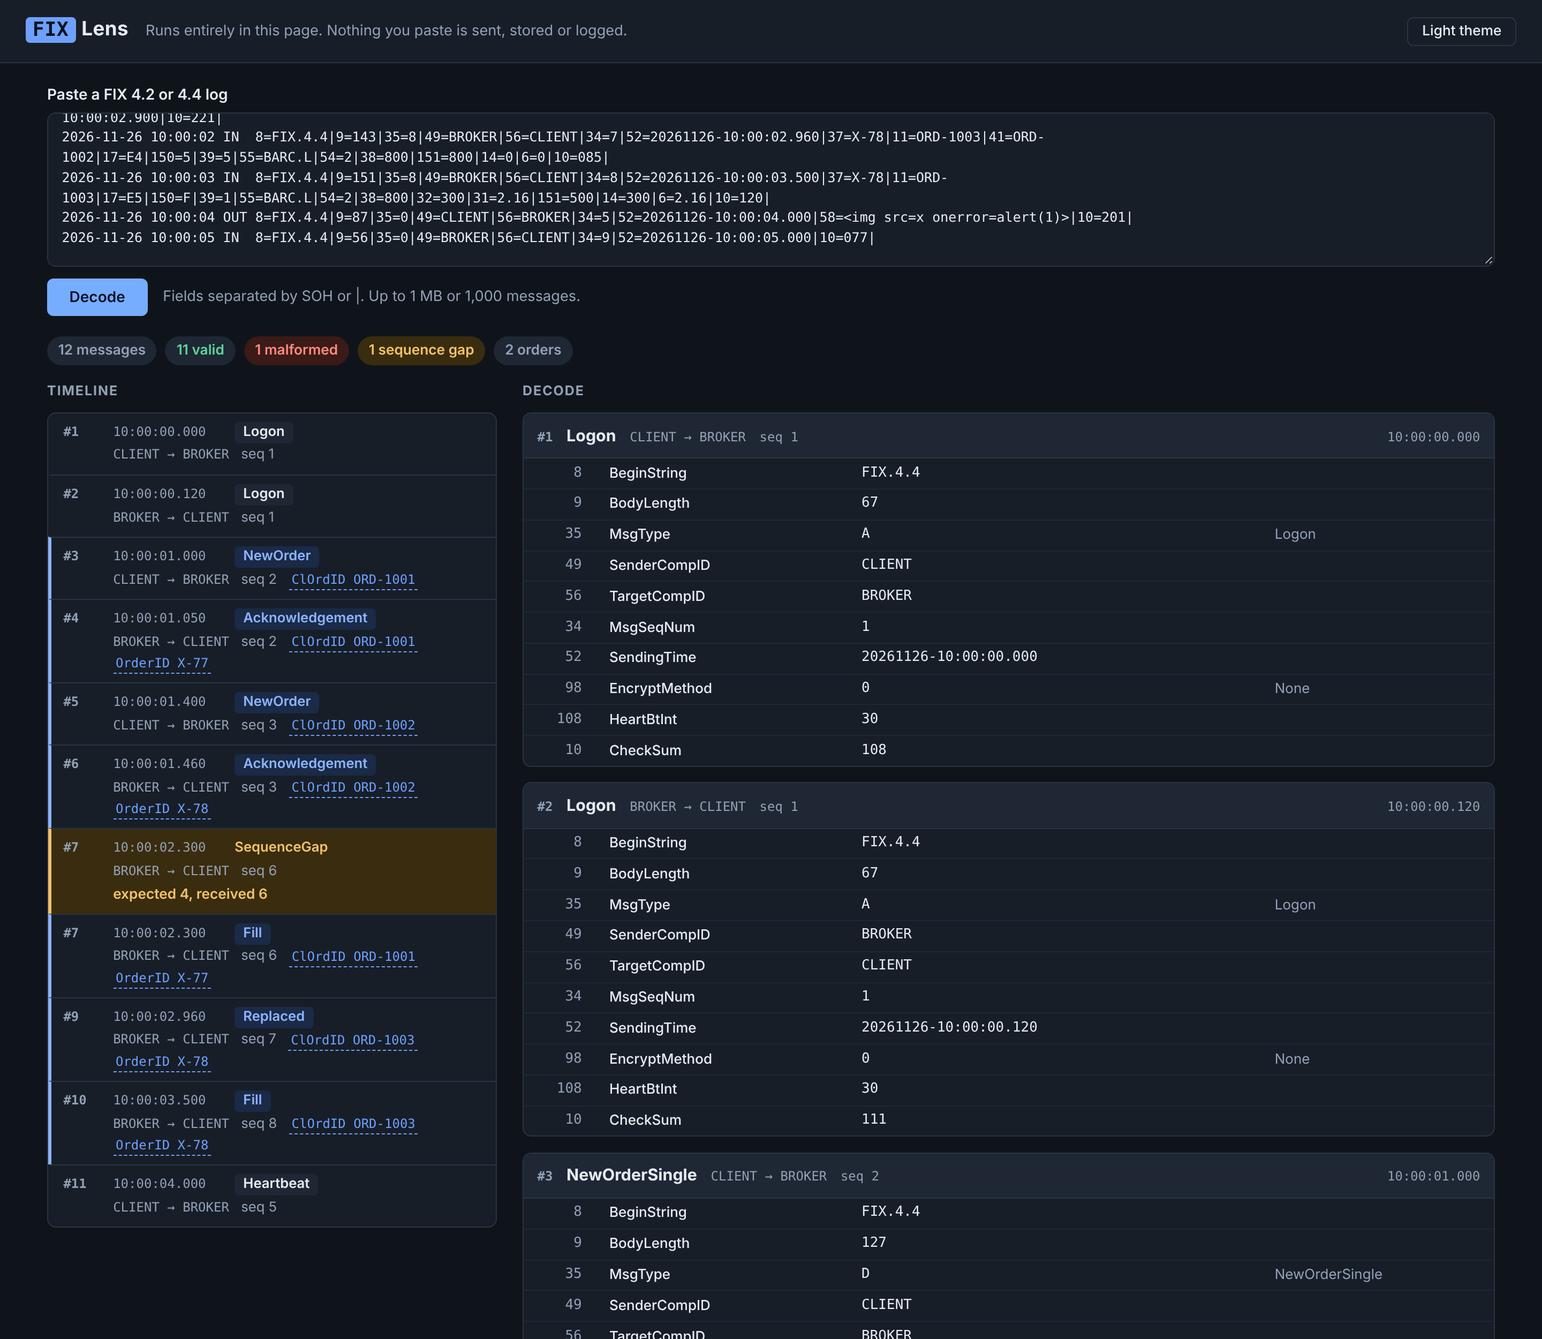
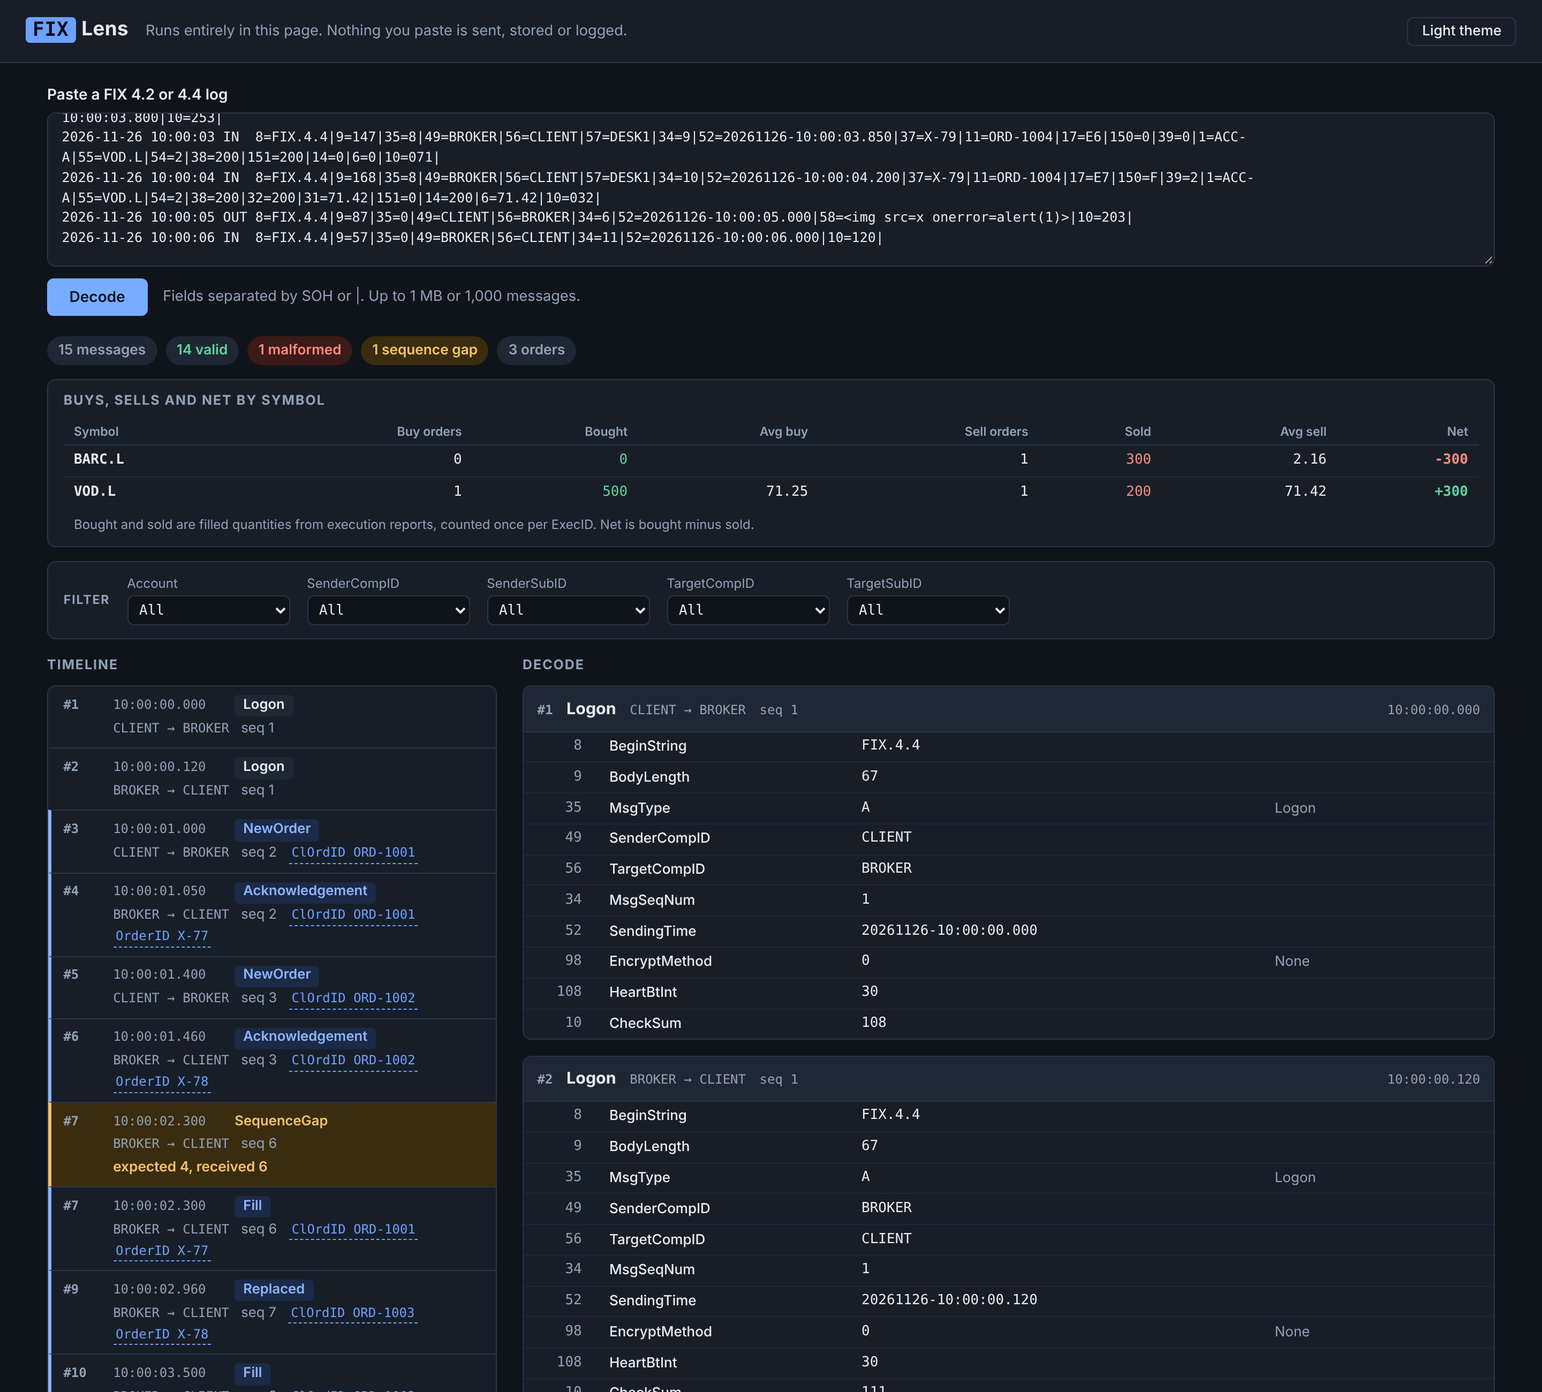
FIX Lens mock: buys/sells/net per symbol, five filters, order story, themes
Claude-Session: https://claude.ai/code/session_017Nmbe65RLJyS5p6ETtVvkY

diff --git a/docs/agent-harness/fix-lens/mock/src/render.js b/docs/agent-harness/fix-lens/mock/src/render.js
@@ -1,5 +1,7 @@
-/** Render local analysis into the summary strip and the two output sections. Text nodes only. */
+/** Render local analysis into the overview and the two output sections. Text nodes only. */
 import { orderGroups, findOrder } from './orders.js';
+import { tradeSummary } from './summary.js';
+import { FILTERS, filterOptions, applyFilters } from './filters.js';
 
 const el = (parent, tag, text, className) => {
   const node = document.createElement(tag);
@@ -12,6 +14,9 @@ const field = (message, tag) => message.fields.find(f => f.tag === tag) ?? null;
 const value = (message, tag) => field(message, tag)?.value ?? null;
 const meaning = (message, tag) => { const f = field(message, tag); return f ? (f.enumName && f.enumName !== 'unknown value' ? f.enumName : f.value) : null; };
 const clock = stamp => (stamp && stamp.includes('-') ? stamp.slice(stamp.indexOf('-') + 1) : stamp);
+const qty = n => (Math.round(n * 10000) / 10000).toLocaleString('en-GB', { maximumFractionDigits: 4 });
+const px = n => n.toLocaleString('en-GB', { minimumFractionDigits: 2, maximumFractionDigits: 4 });
+const plural = (n, word) => `${n} ${word}${n === 1 ? '' : 's'}`;
 const eventClass = event => {
   if (event.name === 'SequenceGap') return 'gap';
   if (event.name === 'SessionReject' || event.name === 'BusinessReject') return 'reject';
@@ -27,29 +32,76 @@ function orderId(parent, id, prefix, pick) {
   return button;
 }
 
-function renderSummary(root, result, order, clear) {
-  root.replaceChildren();
-  if (!result.ok) return;
-  if (order) {
-    const box = el(root, 'div', undefined, 'order-story');
-    el(box, 'span', 'Order', 'order-kicker');
-    el(box, 'strong', [...order.group.clOrdIds, ...order.group.orderIds].join(' · '));
-    if (order.terms) el(box, 'span', order.terms, 'order-terms');
-    if (order.state) el(box, 'span', order.state, 'stat ok');
-    el(box, 'span', `${order.group.numbers.length} message${order.group.numbers.length === 1 ? '' : 's'}`, 'stat');
-    const all = el(box, 'button', 'Show all messages', 'ghost');
-    all.type = 'button';
-    all.addEventListener('click', clear);
-    return;
-  }
-  const gaps = result.timeline.filter(e => e.name === 'SequenceGap').length;
+function renderStats(root, result, shown, events, filtered) {
+  const row = el(root, 'div', undefined, 'stats');
+  const gaps = events.filter(e => e.name === 'SequenceGap').length;
   const total = result.decoded.length + result.errors.length;
-  const orders = orderGroups(result.decoded).length;
-  el(root, 'span', `${total} message${total === 1 ? '' : 's'}`, 'stat');
-  el(root, 'span', `${result.decoded.length} valid`, 'stat ok');
-  el(root, 'span', `${result.errors.length} malformed`, result.errors.length ? 'stat bad' : 'stat');
-  el(root, 'span', `${gaps} sequence gap${gaps === 1 ? '' : 's'}`, gaps ? 'stat warn' : 'stat');
-  el(root, 'span', `${orders} order${orders === 1 ? '' : 's'}`, 'stat');
+  el(row, 'span', filtered ? `${shown.length} of ${plural(total, 'message')}` : plural(total, 'message'), 'stat');
+  if (!filtered) {
+    el(row, 'span', `${result.decoded.length} valid`, 'stat ok');
+    el(row, 'span', `${result.errors.length} malformed`, result.errors.length ? 'stat bad' : 'stat');
+  }
+  el(row, 'span', plural(gaps, 'sequence gap'), gaps ? 'stat warn' : 'stat');
+  el(row, 'span', plural(orderGroups(shown).length, 'order'), 'stat');
+}
+
+function renderFilters(root, result, chosen, setFilter) {
+  const options = filterOptions(result.decoded);
+  const bar = el(root, 'div', undefined, 'filters');
+  el(bar, 'span', 'Filter', 'filters-label');
+  for (const { key, label } of FILTERS) {
+    const values = options[key];
+    const wrap = el(bar, 'label', undefined, 'filter');
+    el(wrap, 'span', label);
+    const select = el(wrap, 'select');
+    el(select, 'option', 'All');
+    // Option values are positions in the list, never the pasted text itself.
+    values.forEach(v => el(select, 'option', v));
+    select.disabled = values.length === 0;
+    select.selectedIndex = chosen[key] === null || chosen[key] === undefined ? 0 : values.indexOf(chosen[key]) + 1;
+    select.addEventListener('change', () => setFilter(key, select.selectedIndex === 0 ? null : values[select.selectedIndex - 1]));
+  }
+  if (FILTERS.some(f => chosen[f.key])) {
+    const clear = el(bar, 'button', 'Clear filters', 'ghost');
+    clear.type = 'button';
+    clear.addEventListener('click', () => setFilter(null, null));
+  }
+}
+
+function renderTrades(root, shown) {
+  const rows = tradeSummary(shown);
+  const box = el(root, 'div', undefined, 'trades');
+  el(box, 'h2', 'Buys, sells and net by symbol');
+  if (!rows.length) { el(box, 'p', 'No orders or fills in the messages shown.', 'empty'); return; }
+  const table = el(box, 'table', undefined, 'trade-table');
+  const head = el(el(table, 'thead'), 'tr');
+  for (const [text, cls] of [['Symbol', ''], ['Buy orders', 'n'], ['Bought', 'n buy'], ['Avg buy', 'n'], ['Sell orders', 'n'], ['Sold', 'n sell'], ['Avg sell', 'n'], ['Net', 'n']]) el(head, 'th', text, cls);
+  const body = el(table, 'tbody');
+  for (const r of rows) {
+    const net = r.buy.filledQty - r.sell.filledQty;
+    const tr = el(body, 'tr');
+    el(tr, 'td', r.symbol, 'symbol');
+    el(tr, 'td', String(r.buy.orders), 'n');
+    el(tr, 'td', qty(r.buy.filledQty), 'n buy');
+    el(tr, 'td', r.buy.filledQty ? px(r.buy.notional / r.buy.filledQty) : '', 'n');
+    el(tr, 'td', String(r.sell.orders), 'n');
+    el(tr, 'td', qty(r.sell.filledQty), 'n sell');
+    el(tr, 'td', r.sell.filledQty ? px(r.sell.notional / r.sell.filledQty) : '', 'n');
+    el(tr, 'td', `${net > 0 ? '+' : ''}${qty(net)}`, net > 0 ? 'n net buy' : net < 0 ? 'n net sell' : 'n net');
+  }
+  el(box, 'p', 'Bought and sold are filled quantities from execution reports, counted once per ExecID. Net is bought minus sold.', 'note');
+}
+
+function renderOrderBanner(root, order, clear) {
+  const box = el(root, 'div', undefined, 'order-story');
+  el(box, 'span', 'Order', 'order-kicker');
+  el(box, 'strong', [...order.group.clOrdIds, ...order.group.orderIds].join(' · '));
+  if (order.terms) el(box, 'span', order.terms, 'order-terms');
+  if (order.state) el(box, 'span', order.state, 'stat ok');
+  el(box, 'span', plural(order.group.numbers.length, 'message'), 'stat');
+  const all = el(box, 'button', 'Back to all messages', 'ghost');
+  all.type = 'button';
+  all.addEventListener('click', clear);
 }
 
 function renderTimeline(section, events, pick) {
@@ -106,30 +158,41 @@ function describe(group, decoded) {
 }
 
 /**
- * render(result, selectedOrderId?, handlers?)
- * With a selected order id, only that order's messages and events are shown.
+ * render(result, view?, handlers?)
+ * view: { orderId, filters }. With an order id, only that order's messages and events are shown.
+ * handlers: { pick(orderId), clear(), setFilter(key, value) }.
  */
-export function render(result, selectedOrderId = null, handlers = {}) {
+export function render(result, view = {}, handlers = {}) {
   const pick = handlers.pick ?? (() => {});
   const clear = handlers.clear ?? (() => {});
+  const setFilter = handlers.setFilter ?? (() => {});
+  const chosen = view.filters ?? {};
   const decodeSection = document.querySelector('#decode');
   const timelineSection = document.querySelector('#timeline');
   for (const section of [decodeSection, timelineSection]) section.replaceChildren(section.querySelector('h2'));
-  const summary = document.querySelector('#summary');
-  if (!result.ok) {
-    if (summary) summary.replaceChildren();
-    el(decodeSection, 'p', result.limit.warning, 'callout bad');
-    return;
+  const overview = document.querySelector('#summary');
+  if (overview) overview.replaceChildren();
+  if (!result.ok) { el(decodeSection, 'p', result.limit.warning, 'callout bad'); return; }
+
+  const filtered = FILTERS.some(f => chosen[f.key]);
+  const passing = applyFilters(result.decoded, chosen);
+  const group = view.orderId ? findOrder(orderGroups(result.decoded), view.orderId) : null;
+  const shown = group ? passing.filter(m => group.numbers.includes(m.number)) : passing;
+  const numbers = new Set(shown.map(m => m.number));
+  const events = result.timeline.filter(e => numbers.has(e.number));
+
+  if (overview) {
+    if (group) renderOrderBanner(overview, { group, ...describe(group, result.decoded) }, clear);
+    renderStats(overview, result, shown, events, filtered || Boolean(group));
+    renderTrades(overview, shown);
+    renderFilters(overview, result, chosen, setFilter);
   }
-  const group = selectedOrderId ? findOrder(orderGroups(result.decoded), selectedOrderId) : null;
-  const inView = number => !group || group.numbers.includes(number);
-  if (summary) renderSummary(summary, result, group ? { group, ...describe(group, result.decoded) } : null, clear);
-  renderTimeline(timelineSection, result.timeline.filter(e => inView(e.number)), pick);
+  renderTimeline(timelineSection, events, pick);
   const items = [
-    ...result.decoded.filter(m => inView(m.number)).map(message => ({ number: message.number, message })),
-    ...(group ? [] : result.errors.map(error => ({ number: error.number, error }))),
+    ...shown.map(message => ({ number: message.number, message })),
+    ...(group || filtered ? [] : result.errors.map(error => ({ number: error.number, error }))),
   ].sort((a, b) => a.number - b.number);
-  if (!items.length) el(decodeSection, 'p', 'No FIX messages found in the pasted text.', 'empty');
+  if (!items.length) el(decodeSection, 'p', filtered || group ? 'No messages match the current filters.' : 'No FIX messages found in the pasted text.', 'empty');
   for (const item of items) {
     if (item.message) renderMessage(decodeSection, item.message, pick);
     else {

diff --git a/docs/agent-harness/fix-lens/mock/styles.css b/docs/agent-harness/fix-lens/mock/styles.css
@@ -33,7 +33,9 @@ textarea:focus, button:focus-visible { outline: 2px solid var(--accent); outline
 button { font: 600 14px var(--sans); padding: .55rem 1.3rem; color: var(--accent-ink); background: var(--accent); border: 0; border-radius: 6px; cursor: pointer; }
 button:hover { filter: brightness(1.08); }
 .hint { color: var(--muted); font-size: .85rem; }
-.summary { display: flex; flex-wrap: wrap; gap: .5rem; margin: 1.2rem 0 0; min-height: 1px; }
+.overview { display: grid; gap: .8rem; margin: 1.2rem 0 0; }
+.overview:empty { display: none; }
+.stats { display: flex; flex-wrap: wrap; gap: .5rem; }
 .stat { font-size: .82rem; font-weight: 600; padding: .25rem .65rem; border-radius: 999px; background: var(--soft); color: var(--muted); }
 .stat.ok { color: var(--ok); } .stat.warn { color: var(--warn); background: var(--warn-bg); } .stat.bad { color: var(--bad); background: var(--bad-bg); }
 .results { display: grid; grid-template-columns: minmax(300px, 420px) minmax(0, 1fr); gap: 1.5rem; align-items: start; margin-top: 1rem; }
@@ -83,3 +85,19 @@ section h2 { margin: 0 0 .6rem; font-size: .78rem; font-weight: 700; letter-spac
 .order-story strong { font-family: var(--mono); }
 .order-terms { color: var(--ink); }
 .order-story .ghost { margin-left: auto; font-weight: 500; font-size: .82rem; padding: .3rem .8rem; color: var(--ink); background: var(--panel); border: 1px solid var(--line); }
+.filters { display: flex; flex-wrap: wrap; align-items: end; gap: .6rem 1rem; padding: .7rem .9rem; background: var(--panel); border: 1px solid var(--line); border-radius: 8px; }
+.filters-label { font-size: .72rem; font-weight: 700; letter-spacing: .08em; text-transform: uppercase; color: var(--muted); align-self: center; }
+.filter { display: grid; gap: .15rem; font-size: .75rem; color: var(--muted); }
+.filter select { font: 13px var(--mono); min-width: 9.5rem; padding: .3rem .4rem; color: var(--ink); background: var(--bg); border: 1px solid var(--line); border-radius: 6px; }
+.filter select:disabled { opacity: .5; }
+.filters .ghost { margin-left: auto; font-weight: 500; font-size: .82rem; padding: .3rem .8rem; color: var(--ink); background: transparent; border: 1px solid var(--line); }
+.trades { background: var(--panel); border: 1px solid var(--line); border-radius: 8px; padding: .7rem .9rem .5rem; }
+.trades h2 { margin-bottom: .4rem; }
+.trade-table { width: 100%; border-collapse: collapse; font-size: 13px; }
+.trade-table th { text-align: left; font-size: .72rem; font-weight: 600; color: var(--muted); padding: .25rem .6rem; border-bottom: 1px solid var(--line); }
+.trade-table td { padding: .3rem .6rem; border-top: 1px solid var(--soft); font-family: var(--mono); }
+.trade-table .n { text-align: right; }
+.trade-table .symbol { font-weight: 600; }
+.trade-table td.buy { color: var(--ok); } .trade-table td.sell { color: var(--bad); }
+.trade-table td.net { font-weight: 700; }
+.trades .note { margin: .45rem .6rem .2rem; font-size: .75rem; color: var(--muted); }

diff --git a/docs/agent-harness/fix-lens/mock/src/summary.js b/docs/agent-harness/fix-lens/mock/src/summary.js
@@ -1,0 +1,43 @@
+/**
+ * Buys and sells per symbol, from the decoded messages given (already filtered by the caller).
+ * Orders come from NewOrderSingle (35=D). Fills come from ExecutionReports (35=8) with LastQty (32) > 0,
+ * counted once per ExecID (17) so a resent report is not counted twice.
+ */
+const value = (message, tag) => message.fields.find(f => f.tag === tag)?.value ?? null;
+const BUY = ['1', '3'];
+const SELL = ['2', '4', '5', '6'];
+const sideOf = message => { const s = value(message, 54); return BUY.includes(s) ? 'buy' : SELL.includes(s) ? 'sell' : null; };
+const num = text => { const n = Number(text); return Number.isFinite(n) ? n : 0; };
+const empty = () => ({ orders: 0, orderedQty: 0, fills: 0, filledQty: 0, notional: 0 });
+
+export function tradeSummary(decoded) {
+  const bySymbol = new Map();
+  const seenExec = new Set();
+  const row = symbol => {
+    if (!bySymbol.has(symbol)) bySymbol.set(symbol, { symbol, buy: empty(), sell: empty() });
+    return bySymbol.get(symbol);
+  };
+  for (const message of decoded) {
+    const type = value(message, 35);
+    const symbol = value(message, 55);
+    const side = sideOf(message);
+    if (!symbol || !side) continue;
+    if (type === 'D') {
+      const cell = row(symbol)[side];
+      cell.orders += 1;
+      cell.orderedQty += num(value(message, 38));
+    } else if (type === '8') {
+      const lastQty = num(value(message, 32));
+      if (lastQty <= 0) continue;
+      const execId = value(message, 17);
+      const key = `${value(message, 37) ?? ''}|${execId ?? `#${message.number}`}`;
+      if (seenExec.has(key)) continue;
+      seenExec.add(key);
+      const cell = row(symbol)[side];
+      cell.fills += 1;
+      cell.filledQty += lastQty;
+      cell.notional += lastQty * num(value(message, 31));
+    }
+  }
+  return [...bySymbol.values()].sort((a, b) => a.symbol.localeCompare(b.symbol));
+}

diff --git a/docs/agent-harness/fix-lens/mock/src/filters.js b/docs/agent-harness/fix-lens/mock/src/filters.js
@@ -1,0 +1,44 @@
+/**
+ * Filters over decoded messages. Each filter is a tag and one chosen value, or null for "all".
+ * Account (1) is matched per order: choosing an account keeps every message of the orders that
+ * carry it. The four comp and sub ids are matched on the message itself.
+ */
+import { orderGroups } from './orders.js';
+
+export const FILTERS = [
+  { key: 'account', tag: 1, label: 'Account' },
+  { key: 'senderCompId', tag: 49, label: 'SenderCompID' },
+  { key: 'senderSubId', tag: 50, label: 'SenderSubID' },
+  { key: 'targetCompId', tag: 56, label: 'TargetCompID' },
+  { key: 'targetSubId', tag: 57, label: 'TargetSubID' },
+];
+const value = (message, tag) => message.fields.find(f => f.tag === tag)?.value ?? null;
+
+/** The distinct values present in the log for each filter, sorted. */
+export function filterOptions(decoded) {
+  const options = {};
+  for (const { key, tag } of FILTERS) {
+    options[key] = [...new Set(decoded.map(m => value(m, tag)).filter(v => v !== null && v !== ''))].sort();
+  }
+  return options;
+}
+
+/** The decoded messages that pass every chosen filter. */
+export function applyFilters(decoded, chosen) {
+  let kept = decoded;
+  for (const { key, tag } of FILTERS) {
+    const want = chosen[key] ?? null;
+    if (want === null) continue;
+    if (key === 'account') {
+      const numbers = new Set();
+      for (const message of decoded) if (value(message, 1) === want) numbers.add(message.number);
+      for (const group of orderGroups(decoded)) {
+        if (group.numbers.some(n => numbers.has(n))) group.numbers.forEach(n => numbers.add(n));
+      }
+      kept = kept.filter(m => numbers.has(m.number));
+    } else {
+      kept = kept.filter(m => value(m, tag) === want);
+    }
+  }
+  return kept;
+}

diff --git a/docs/agent-harness/fix-lens/mock/index.html b/docs/agent-harness/fix-lens/mock/index.html
@@ -4,7 +4,7 @@
 <header class="top"><div class="brand"><span class="logo">FIX</span><span class="logo-word">Lens</span></div><p class="privacy">Runs entirely in this page. Nothing you paste is sent, stored or logged.</p><button id="theme-button" type="button" class="ghost">Dark theme</button></header>
 <main>
 <section class="input"><label for="paste">Paste a FIX 4.2 or 4.4 log</label><textarea id="paste" autocomplete="off" spellcheck="false" autocapitalize="off" autocorrect="off" translate="no" placeholder="8=FIX.4.4|9=67|35=A|49=CLIENT|56=BROKER|34=1|..."></textarea><div class="actions"><button id="decode-button" type="button">Decode</button><span class="hint">Fields separated by SOH or |. Up to 1 MB or 1,000 messages.</span></div></section>
-<div id="summary" class="summary"></div>
+<section id="summary" class="overview"></section>
 <div class="results"><section id="timeline"><h2>Timeline</h2><p class="empty">Session and order events appear here.</p></section><section id="decode"><h2>Decode</h2><p class="empty">Decoded messages appear here.</p></section></div>
 </main>
 <script type="module" src="src/main.js"></script></body></html>

diff --git a/docs/agent-harness/fix-lens/mock/src/main.js b/docs/agent-harness/fix-lens/mock/src/main.js
@@ -2,12 +2,23 @@ import { analyse } from './analyse.js';
 import { render } from './render.js';
 
 const input = document.querySelector('#paste');
-// The last analysis and the selected order live in memory only.
+// The last analysis, the selected order and the chosen filters live in memory only.
 let result = null;
-const show = orderId => render(result, orderId, { pick: show, clear: () => show(null) });
+const view = { orderId: null, filters: {} };
+const handlers = {
+  pick: orderId => { view.orderId = orderId; show(); },
+  clear: () => { view.orderId = null; show(); },
+  setFilter: (key, value) => {
+    if (key === null) view.filters = {}; else view.filters[key] = value;
+    show();
+  },
+};
+function show() { render(result, view, handlers); }
 document.querySelector('#decode-button').addEventListener('click', () => {
   result = analyse(input.value);
-  show(null);
+  view.orderId = null;
+  view.filters = {};
+  show();
 });
 
 // Theme: follows the system setting until the button is used. The choice is kept in memory only

diff --git a/docs/agent-harness/fix-lens/mock/README.md b/docs/agent-harness/fix-lens/mock/README.md
@@ -1,12 +1,19 @@
 # FIX Lens presentation mock (reviewer's design reference, not landed code)
 
-A restyled copy of the page, built on the landed logic plus two local changes: the dictionaries as JS modules (the
-FXL-8 fix) and a new `src/orders.js`. Checked in Chromium with `sample.log`: no console errors, no requests to
+A restyled copy of the page, built on the landed logic plus local changes: the dictionaries as JS modules (the
+FXL-8 fix) and three new pure modules, `src/orders.js`, `src/summary.js` and `src/filters.js`. Checked in Chromium with `sample.log`: no console errors, no requests to
 another origin, the pasted `<img onerror>` text stays text.
 
 What it shows:
 - **Layout:** a header with the privacy line, the input, a summary strip (messages, valid, malformed, sequence
-  gaps, orders), then the timeline (left, sticky) beside the decoded messages (right). One column under 900 px.
+  gaps, orders), the buys/sells/net table, the filters, then the timeline (left, sticky) beside the decoded
+  messages (right). One column under 900 px.
+- **Buys, sells and net by symbol:** one line per symbol: buy orders, bought quantity, average buy price, sell
+  orders, sold quantity, average sell price, and net (bought minus sold). Quantities are fills from execution
+  reports (LastQty 32 at LastPx 31), counted once per ExecID (17). It follows the filters and the selected order.
+- **Filters:** Account (1), SenderCompID (49), SenderSubID (50), TargetCompID (56), TargetSubID (57), each a list of
+  the values found in the log. Account keeps every message of the orders that carry it; the other four match the
+  message itself. Malformed messages are hidden while a filter is on.
 - **Timeline rows:** message number, time, event badge, direction, sequence number, order ids. Order events have a
   blue edge, a sequence gap is amber, rejects are red.
 - **Message cards:** a header (number, message type, direction, sequence, time) and a table: tag, field, value,
